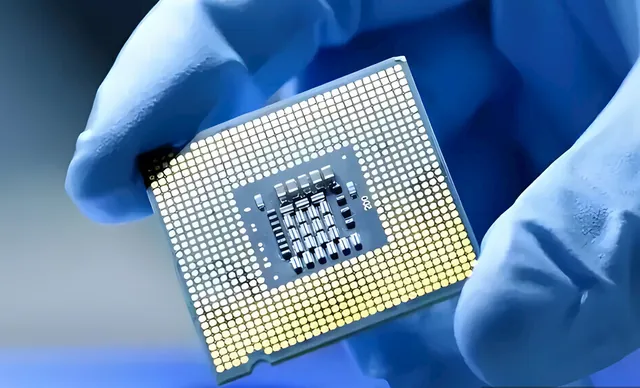
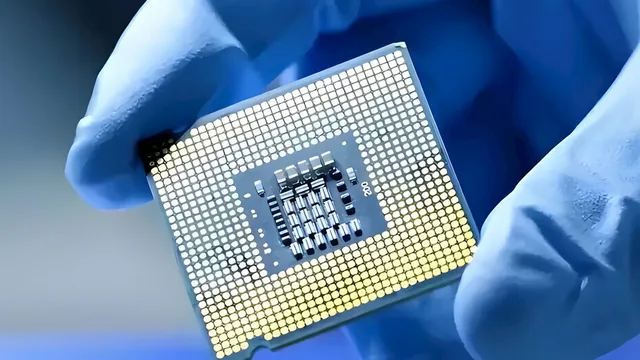
style: 卡片改 flex 纵向布局使标签贴底对齐(治标题行数不同导致的高低不齐)；三体/有据缩略图统一裁为16:9

diff --git a/assets/css/components.css b/assets/css/components.css
@@ -142,7 +142,7 @@ body.nav-locked { overflow: hidden; }
 
 /* ==================== 2.3 作品卡片 Work Card ==================== */
 .work-card {
-  display: block;
+  display: flex; flex-direction: column;
   background: var(--surface);
   border: 1px solid var(--border);
   border-radius: var(--radius-card);
@@ -196,7 +196,7 @@ body.nav-locked { overflow: hidden; }
 }
 .work-card__value-row { margin-top: var(--space-2); }
 .work-card__value { color: var(--text-secondary); font-size: var(--fs-sm); line-height: 1.55; margin: 0; }
-.work-card__tags { display: flex; flex-wrap: wrap; gap: var(--space-2); margin-top: var(--space-3); }
+.work-card__tags { display: flex; flex-wrap: wrap; gap: var(--space-2); margin-top: auto; padding-top: var(--space-3); }
 
 /* ==================== 2.4 标签 Tag ==================== */
 .tag {
